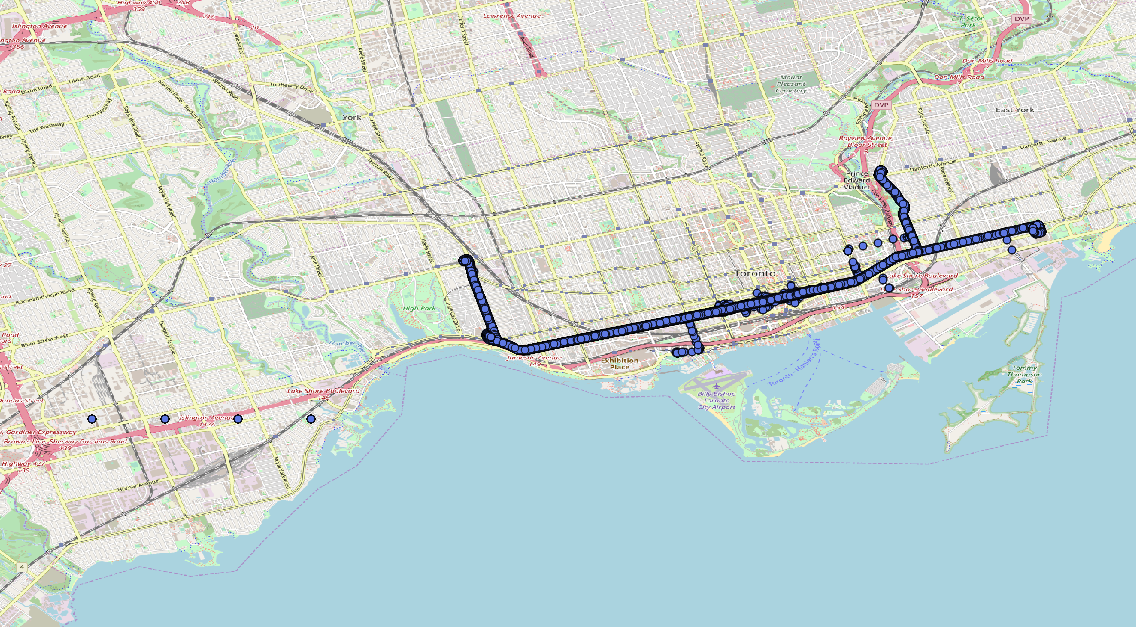
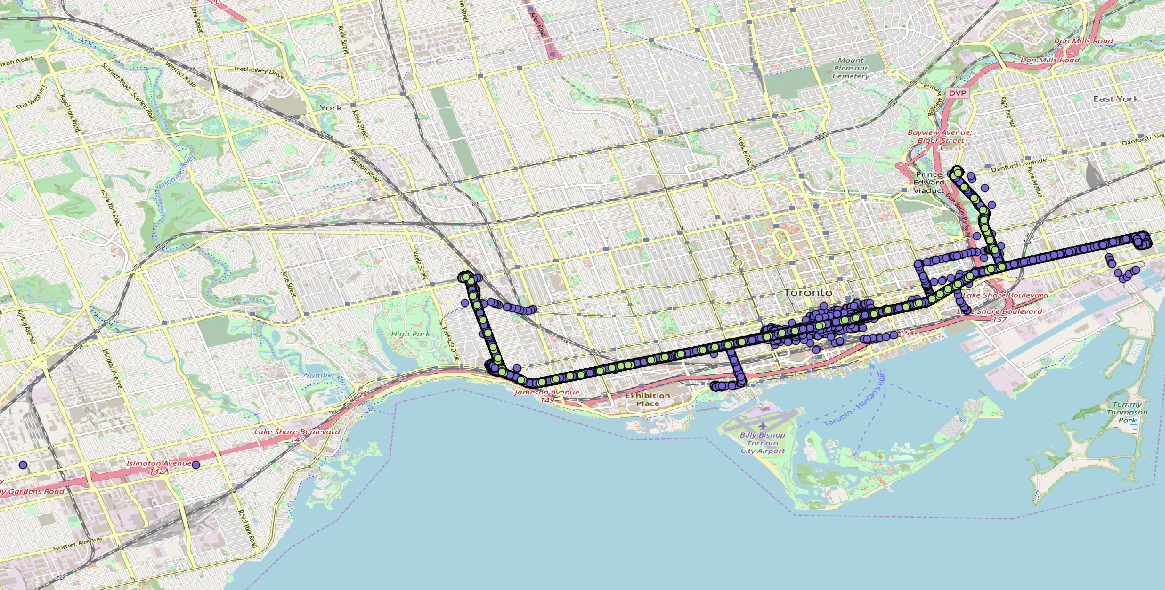
Delete the method of using point buffer because not using

diff --git a/ttc/basic_filter_cis.md b/ttc/basic_filter_cis.md
@@ -167,55 +167,6 @@ Data output on QGIS:
 
 #### Step 5:
 
-Filtering by the GPS density by counting the number of points are in a about 10-metre buffer. The purpose of this step is to filter the messy GPS points in downtown area and only remain the GPS points that are closed to each other.
-
-Since the process of counting closed GPS points is time-consuming, doing [spatial indexing](http://revenant.ca/www/postgis/workshop/indexing.html) before counting can increase the speed of processing.
-
-First,
-
-```sql
-VACUUM ANALYZE dzou2.cis_514_1004_f2
-```
-
-Then, clicking `analyze` option in the `maintenance` option from right-clicking the table (as described in the spatial indexing link).
-
-After that, running the SQL of counting.
-
-```SQL
-SELECT A.message_datetime, A.run, A.vehicle, A.position, count(B.position) AS num_points
-INTO dzou2.cis_514_1004_f3
-FROM dzou2.cis_514_1004_f2 A
-INNER JOIN dzou2.cis_514_1004_f2 B
-ON ST_DWithin(A.position, B.position, 0.0001)
-GROUP BY A.message_datetime, A.run, A.vehicle, A.position
-```
-
-The table output has a column to store the number of GPS points in its about 10-metre buffer.
-To filter out the GPS points by the low density, the ratio that the number of closed points out of the number of all the GPS points in step 4 can be used as the indicator. In this case, ratio of **0.02%** because the data are small, or using a number as the filter may be better.
-
-Thus, using this SQL query:
-
-```SQL
-SELECT * INTO dzou2.cis_514_1004_f4
-FROM dzou2.cis_514_1004_f3
-WHERE num_points/(count(*)) > 0.0002
-```
-**OR using this SQL query only in this example**:
-
-```SQL
-SELECT * INTO dzou2.cis_514_1004_f4
-FROM dzou2.cis_514_1004_f3
-WHERE num_points >= 4
-```
-
-
-Data output on QGIS:
-
-!['ttc_step5'](gtfs/img/ttc_step5.png)
-
-
-#### Step 6:
-
 Compared the CIS data to the GTFS data by selecting the GTFS data that on the belong to route 514 and 10/04/2017.
 
 ```SQL
@@ -243,7 +194,7 @@ GROUP BY stop_code, stop_name, route_short_name, geom
 
 Data output on QGIS:
 
-!['ttc_step6'](gtfs/img/ttc_step6.png)
+!['ttc_step5'](gtfs/img/ttc_s5.png)
 
 The green points represent the GTFS data, and the red points are the CIS data.
 
@@ -408,46 +359,6 @@ Data output on QGIS:
 
 #### Step 5:
 
-Filtering by the GPS density by counting the number of points are in a about 10-metre buffer.
-
-First,
-
-```sql
-VACUUM ANALYZE dzou2.cis_504_1004_f2
-```
-
-Then, clicking `analyze` option in the `maintenance` option from right-clicking the table (as described in the spatial indexing link).
-
-After that, running the SQL of counting.
-
-```SQL
-SELECT A.message_datetime, A.run, A.vehicle, A.position, count(B.position) AS num_points
-INTO dzou2.cis_504_1004_f3
-FROM dzou2.cis_504_1004_f2 A
-INNER JOIN dzou2.cis_504_1004_f2 B
-ON ST_DWithin(A.position, B.position, 0.0001)
-GROUP BY A.message_datetime, A.run, A.vehicle, A.position
-```
-
-Then,
-**using this SQL query only in this example**:
-
-```SQL
-SELECT * INTO dzou2.cis_504_1004_f4
-FROM dzou2.cis_504_1004_f3
-WHERE num_points >= 2
-```
-Since the process of counting closed GPS points is time-consuming and there are too many data, the time of running the query **requires 3 hours**.
-
-Another disadvantage of using GPS density to filter out the GPS points in this case is that the diversion on the Danforth Ave. drives too fast and most of points might be filtered out in last step, and the result is that it is hard to filter out the wrong GPS points in downtown area and keep the diversion points because both of their density of GPS points are low.
-
-Thus, filtering by the GPS point density **is not suitable** in this case.
-
-!['ttc_1004_504_s5'](gtfs/img/ttc_1004_504_s5.png)
-
-
-#### Step 6:
-
 Compared the CIS data to the GTFS data by selecting the GTFS data that on the belong to route 504 and 10/04/2017.
 
 ```SQL
@@ -475,7 +386,7 @@ GROUP BY stop_code, stop_name, route_short_name, geom
 
 Data output on QGIS:
 
-!['ttc_1004_504_s6'](gtfs/img/ttc_1004_504_st6.png)
+!['ttc_1004_504_s5'](gtfs/img/ttc_1004_504_5.png)
 
 The green points represent the GTFS data, and the orange points are the CIS data.
 
@@ -641,54 +552,6 @@ Data output on QGIS:
 
 #### Step 5:
 
-Filtering by the GPS density by counting the number of points are in a about 10-metre buffer. The purpose of this step is to filter the messy GPS points in downtown area and only remain the GPS points that are closed to each other.
-
-Since the process of counting closed GPS points is time-consuming, doing [spatial indexing](http://revenant.ca/www/postgis/workshop/indexing.html) before counting can increase the speed of processing.
-
-First,
-
-```sql
-VACUUM ANALYZE dzou2.cis_514_1114_f2
-```
-
-Then, clicking `analyze` option in the `maintenance` option from right-clicking the table (as described in the spatial indexing link).
-
-After that, running the SQL of counting.
-
-```SQL
-SELECT A.message_datetime, A.run, A.vehicle, A.position, count(B.position) AS num_points
-INTO dzou2.cis_514_1114_f3
-FROM dzou2.cis_514_1114_f2 A
-INNER JOIN dzou2.cis_514_1114_f2 B
-ON ST_DWithin(A.position, B.position, 0.0001)
-GROUP BY A.message_datetime, A.run, A.vehicle, A.position
-```
-
-In this case, ratio of **0.02% ~ 0.03%** because the data are small, or using a number as the filter may be better.
-
-Thus, using this SQL query:
-
-```SQL
-SELECT * INTO dzou2.cis_514_1114_f4
-FROM dzou2.cis_514_1114_f3
-WHERE num_points/(count(*)) > 0.000255
-```
-**OR using this SQL query only in this example**:
-
-```SQL
-SELECT * INTO dzou2.cis_514_1114_f4
-FROM dzou2.cis_514_1114_f3
-WHERE num_points >= 6
-```
-
-
-Data output on QGIS:
-
-!['ttc_1114_514_s5'](gtfs/img/ttc_1114_514_s5.png)
-
-
-#### Step 6:
-
 Compared the CIS data to the GTFS data by selecting the GTFS data that on the belong to route 514 and 11/04/2017.
 
 ```SQL
@@ -716,7 +579,7 @@ GROUP BY stop_code, stop_name, route_short_name, geom
 
 Data output on QGIS:
 
-!['ttc_1114_514_s6'](gtfs/img/ttc_1114_514_s6.png)
+!['ttc_1114_514_s5'](gtfs/img/ttc_1114_514_step5.png)
 
 The green points represent the GTFS data, and the purple points are the CIS data.
 
@@ -879,44 +742,6 @@ Data output on QGIS:
 !['ttc_1114_504_s4'](gtfs/img/ttc_1114_504_s4.png)
 
 
-#### Step 5:
-
-Filtering by the GPS density by counting the number of points are in a about 10-metre buffer.
-
-First,
-
-```sql
-VACUUM ANALYZE dzou2.cis_504_1114_f2
-```
-
-Then, clicking `analyze` option in the `maintenance` option from right-clicking the table (as described in the spatial indexing link).
-
-After that, running the SQL of counting.
-
-```SQL
-SELECT A.message_datetime, A.run, A.vehicle, A.position, count(B.position) AS num_points
-INTO dzou2.cis_504_1114_f3
-FROM dzou2.cis_504_1114_f2 A
-INNER JOIN dzou2.cis_504_1114_f2 B
-ON ST_DWithin(A.position, B.position, 0.0001)
-GROUP BY A.message_datetime, A.run, A.vehicle, A.position
-```
-
-Then,
-**using this SQL query only in this example**:
-
-```SQL
-SELECT * INTO dzou2.cis_504_1114_f4
-FROM dzou2.cis_504_1114_f3
-WHERE num_points >= 3
-```
-Since the process of counting closed GPS points is time-consuming and there are too many data, the time of running the query **requires 3 hours**.
-
-Another disadvantage of using GPS density to filter out the GPS points in this case is that the diversion on the Dundas E. drives too fast and most of points might be filtered out in last step, and the result is that it is hard to filter out the wrong GPS points in downtown area and keep the diversion points because both of their density of GPS points are low.
-
-Thus, filtering by the GPS point density **is not suitable** in this case.
-
-!['ttc_1114_504_s5'](gtfs/img/ttc_1114_504_s5.png)
 
 #### Step 6:
 
@@ -947,7 +772,7 @@ GROUP BY stop_code, stop_name, route_short_name, geom
 
 Data output on QGIS:
 
-!['ttc_1114_504_s6'](gtfs/img/ttc_1114_504_step6.png)
+!['ttc_1114_504_s5'](gtfs/img/ttc_1114_504_S5.png)
 
 The map compares the GTFS stops with the CIS data of route 504 on 11/14/2017, and the CIS data is filtered by route number, date, spatial frame, distances and speeds between points.
 The green points represent the GTFS data, and the blue points are the CIS data.
